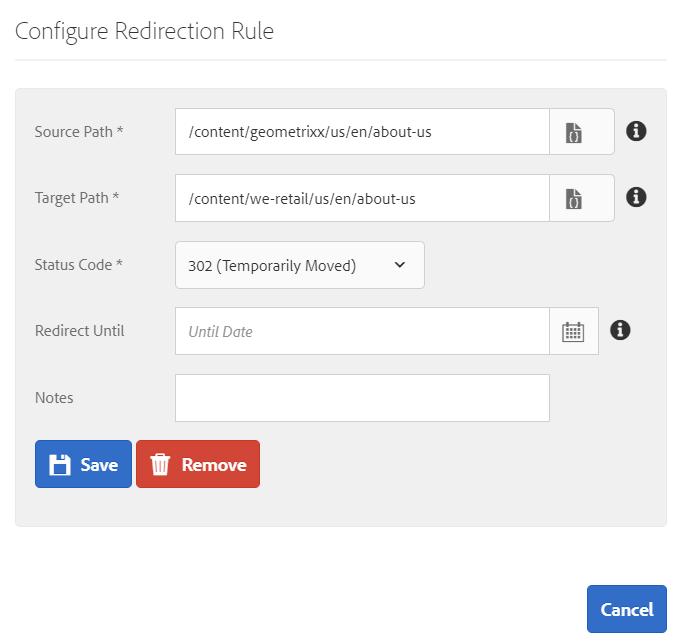
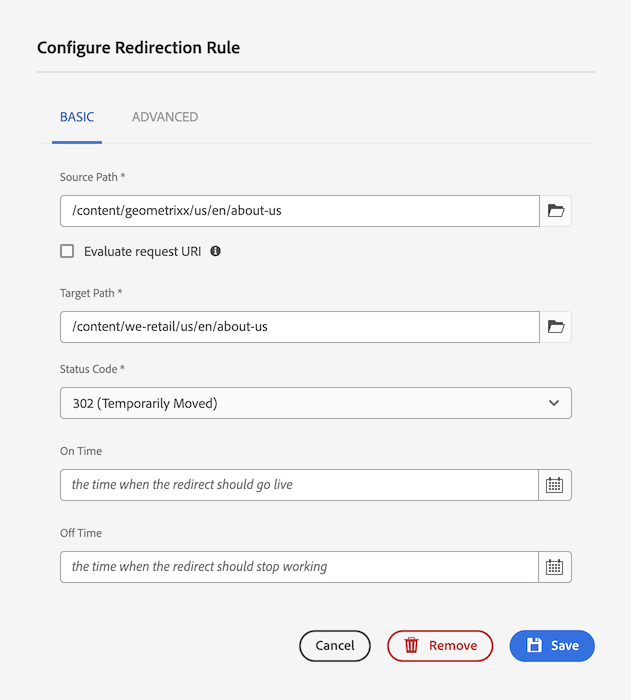
updates screenshots to match the latest UI, added more examples

diff --git a/_acs-aem-commons/features/redirect-manager/subpages/manage.md b/_acs-aem-commons/features/redirect-manager/subpages/manage.md
@@ -14,41 +14,63 @@ or [imported](#export-and-import) from an Excel spreadsheet.
 ![Create Redirect Configurations](../images/create-rule.png)
 
 
-| Input        | Required          | Description          |
-| ------------- |-------------|-------------|
-| Source Path | Yes | Where to redirect from. Can be a path in AEM or a regular expression |
-| Target Path | Yes | Where to redirect to. Can be a path in AEM or an external URL . Can contain back-references. |
-| Status Code | Yes | 301 or 302 **Warning:** The HTTP 301 status code is cached in browsers with no expiry date and cannot be reverted, i.e. once 301 is applied, it is forever |
-| Redirect Until | No | If the field has a value, the page redirection would work till that date and after that date, the redirection would stop for that entry, If the field has no value, the page redirection would work without any end date (as is)|
-| Notes | No | Optional notes. Roughly equivalent to a comment near a redirect in an Apache HTTPD conf file |
+| Input       | Required | Description                                                                                                                                                |
+|-------------|----------|------------------------------------------------------------------------------------------------------------------------------------------------------------|
+| Source Path | Yes      | Where to redirect from. Can be a path in AEM or a regular expression                                                                                       |
+| Target Path | Yes      | Where to redirect to. Can be a path in AEM or an external URL . Can contain back-references.                                                               |
+| Status Code | Yes      | 301 or 302 **Warning:** The HTTP 301 status code is cached in browsers with no expiry date and cannot be reverted, i.e. once 301 is applied, it is forever |
+| On Time     | No       | The time when the redirect should go live                                                                                                                  |
+| Off Time    | No       | The time when the redirect should stop working                                                                                                             |
+| Notes       | No       | Optional notes. Roughly equivalent to a comment near a redirect in an Apache HTTPd conf file                                                               |
+| Tags        | No       | Optional tags to categorize redirect rules                                                                                                                 |
 
 Redirects are supported for pages and assets. You can match by exact path or by a regular expression.
 Target can include back-references ($N) to the regex pattern which will be replaced by the contents of the Nth group of
 the regex match.
 
 Redirect target can be a full JCR path ( `/content/we-retail/en/about` ) or a shortened path (`/en/about`) compatible with
-your Dispatcher mod_rewrite rules or an external url (https://www.we-retail.com/en/about).
+your Dispatcher mod_rewrite rules, or an external url (https://www.we-retail.com/en/about).
 You can use [Sling Mappings](./mappings.html) or a [custom class](./mappings.html#custom-location-rewriter) to rewrite Location header.
 
 ### Examples:
 
-| Source        | Target           | Description |
-| ------------- |-------------|-------------|
-| /content/we-retail/hello | /content/we-retail/welcome | Match a page by path. Redirect `/content/we-retail/hello` to `/content/we-retail/welcome` |
-| /content/dam/we-retail/hello.pdf | /content/dam/we-retail/welcome.pdf | Match an asset by path. Redirect `/content/dam/we-retail/hello.pdf` to `/content/dam/we-retail/welcome.pdf` |
-| /content/we-retail/de/about/* | /content/we-retail/en/about | Wildcard Match.  Redirect all pages that start with `/content/we-retail/de/about/*` to `/content/we-retail/en/about`|
-| /content/we-retail/es/about/(.*) | /content/we-retail/en/about | Regex Match equivalent to `/content/we-retail/de/about/*`.  Redirect all pages that match `/content/we-retail/de/about/(.*)` to `/content/we-retail/en/about` |
-| /content/we-retail/de/about/(.*) | /content/we-retail/en/about/$1 | Use a back-reference to redirect german pages (de) to  their english versions (en), e.g. `/content/we-retail/de/about/team => /content/we-retail/en/about/team` |
-| /content/we-retail/(pt-br\|de)/(.+)/speakers/(.*) | /content/we-retail/en/$1/conference/$2 | An example with two back references.  |
-| /content/we-retail/hello | /en/welcome | Return a shortened url (`/en/welcome`) instead of `/content/we-retail/en/welcome` . This will work assuming your dispatcher configuration rewrites `/en/welcome` into `/content/we-retail/en/welcome` |
-| /content/geometrixx/de/* | https://www.geometrixx.de/welcome | Redirect to an external domain |
-| /content/we-retail/hello | /en/welcome?a=1&b=2 | Redirect target can include a query string |
+| Source                                           | Target                            | Description                                                                                                                                                                                           |
+|--------------------------------------------------|-----------------------------------|-------------------------------------------------------------------------------------------------------------------------------------------------------------------------------------------------------|
+| /content/we-retail/hello                         | /content/we-retail/welcome        | Match a page by path. Redirect `/content/we-retail/hello` to `/content/we-retail/welcome`                                                                                                             |
+| /content/dam/we-retail/hello.pdf                 | /content/dam/we-retail/welcome.pdf | Match an asset by path. Redirect `/content/dam/we-retail/hello.pdf` to `/content/dam/we-retail/welcome.pdf`                                                                                           |
+| /content/we-retail/de/about/*                    | /content/we-retail/en/about       | Wildcard Match.  Redirect all pages that start with `/content/we-retail/de/about/*` to `/content/we-retail/en/about`                                                                                  |
+| /content/we-retail/es/about/(.*)                 | /content/we-retail/en/about       | Regex Match equivalent to `/content/we-retail/de/about/*`.  Redirect all pages that match `/content/we-retail/de/about/(.*)` to `/content/we-retail/en/about`                                         |
+| /content/we-retail/de/about/(.*)                 | /content/we-retail/en/about/$1    | Use a back-reference to redirect german pages (de) to  their english versions (en), e.g. `/content/we-retail/de/about/team => /content/we-retail/en/about/team`                                       |
+| /content/we-retail/(pt-br\|de)/(.+)/speakers/(.*)  | /content/we-retail/en/$1/conference/$2 | An example with two back references.                                                                                                                                                                  |
+| /content/we-retail/hello                         | /en/welcome                       | Return a shortened url (`/en/welcome`) instead of `/content/we-retail/en/welcome` . This will work assuming your dispatcher configuration rewrites `/en/welcome` into `/content/we-retail/en/welcome` |
+| /content/geometrixx/de/*                         | https://www.geometrixx.de/welcome | Redirect to an external domain                                                                                                                                                                        |
+| /content/we-retail/hello                         | /en/welcome?a=1&b=2               | Redirect target can include a query string                                                                                                                                                            |
 
 
 ![Trailing Wildcards](../images/trailing-wildcard-1.png)
 
 ![Back References](../images/regex-backref.png)
 
+It is also possible to evaluate the source based on the request URI. This can be configured for each redirect configuration separately.
+Enabling this allows evaluation of request specific data (ie. suffix).
+
+![Evaluate URI](../images/evaluateUri-rule.png)
+
+### Evaluate URI Examples :
+
+| Source                                                              | Target                                        |
+|---------------------------------------------------------------------|-----------------------------------------------|
+| /content/geometrixx/en/one.html/suffix.html                         | /content/geometrixx/en/redirected-page        |
+| /content/geometrixx/en/two.mobile.html/suffix.html                  | /content/geometrixx/en/redirected-page-selector |
+| (.*)/geometrixx/en/three.html/suffix.html                           | /content/geometrixx/en/redirected-page-regex  |
+| /content/geometrixx/en/(\w+).(mobile\desktop).html/suffix-(\d+).html | /content/geometrixx/en/redirected-page-multi-regex |
+| /content/geometrixx/en/page.mobile.html                             | /content/geometrixx/en/page.desktop           |
+
+### Preserving Extensions
+
+By default, redirect manager preserves extension if it is present in the request.
+This lets you define redirects without the `.html` extension and redirect manager will automatically append it.
+This can be [disabled](./advanced.md#Preserving Extensions) by the `preserveExtension` flag in the OSGi configuration.
 
 ### Ordering
 
@@ -86,15 +108,15 @@ https://www.we-retail.com/en/index -> https://www.we-retail.com/en/index
 
 When a context prefix is set for the current configuration, this is clearly indicated in the UI:
 
-![Prefix text](images/prefix-text.png)
+![Prefix text](../images/prefix-text.png)
 
 The content prefix can be entered while creating the [Context Aware Configuration](./caconfig.html):
 
-![Creation in CA config](images/prefix-create1.png)
+![Creation in CA config](../images/prefix-create1.png)
 
 It can also be added or edited afterwards in the [Manage Redirects](http://localhost:4502/apps/acs-commons/content/redirect-manager.html/conf/global/settings/redirects) page:
 
-![Creation in manage redirects](images/prefix-create2.png)
+![Creation in manage redirects](../images/prefix-create2.png)
 
 
 ### Export and Import

diff --git a/_acs-aem-commons/features/redirect-manager/subpages/advanced.md b/_acs-aem-commons/features/redirect-manager/subpages/advanced.md
@@ -52,3 +52,37 @@ $ curl -I http://localhost:4503/content/we-retail/page1.html?a=1&b=2
 HTTP/1.1 302 Found
 Location: /content/we-retail/page2.html   # no query string
 ```
+
+### Preserving Extensions
+
+By default, redirect manager preserves extension if it is present in the request. 
+This lets you define redirects without the `.html` extension and redirect manager will automatically append it. 
+
+#### Example. 
+Notice .html in the Location header. 
+| Source                             | Target                             | Status Code |
+|------------------------------------|------------------------------------|-------------|
+| /content/geometrixx/us/en/about-us | /content/we-retail/us/en/about-us | 302         |
+
+```shell
+$ curl -I http://localhost:4503/content/geometrixx/us/en/about-us.html
+HTTP/1.1 302 Found
+Location: /content/we-retail/us/en/about-us.html
+```
+
+This behaviour is controlled by  the `preserveExtension` flag.  Set it to `false` to disable appending extensions:
+
+```xml
+<?xml version="1.0" encoding="UTF-8"?>
+<jcr:root xmlns:sling="http://sling.apache.org/jcr/sling/1.0" xmlns:jcr="http://www.jcp.org/jcr/1.0"
+          jcr:primaryType="sling:OsgiConfig"
+          enabled="{Boolean}true"
+          preserveExtension="{Boolean}false"
+/>
+```
+
+```shell
+$ curl -I http://localhost:4503/content/geometrixx/us/en/about-us.html
+HTTP/1.1 302 Found
+Location: /content/we-retail/us/en/about-us
+```

diff --git a/_acs-aem-commons/features/redirect-manager/index.md b/_acs-aem-commons/features/redirect-manager/index.md
@@ -26,7 +26,7 @@ respectively in case of a matching incoming request url.
 * [Getting Started](#getting-started-with-redirect-manager)
 * [Managing Redirects](./subpages/manage.html)
 * [Context Aware Configuration](./subpages/caconfig.html)
-* [Sling Mappings](./subpages/mappings.html): Using Sling Mappings to rewrite Location header
+* [Rewriting Location header](./subpages/mappings.html)
 * [Advanced Configuration](./subpages/advanced.html)
 
 ## Getting Started with Redirect Manager
@@ -85,7 +85,7 @@ to replicate your redirects to the publish instances.
 
 ### Testing 
 
-In your publish instance navigate to http://localhost:4503/content/geometrixx/us/en/about-us.html which should return 
+Navigate to http://localhost:4503/content/geometrixx/us/en/about-us.html which should return 
 a 302 redirect to http://localhost:4503/content/we-retail/us/en/about-us.html : 
 
 ```shell
